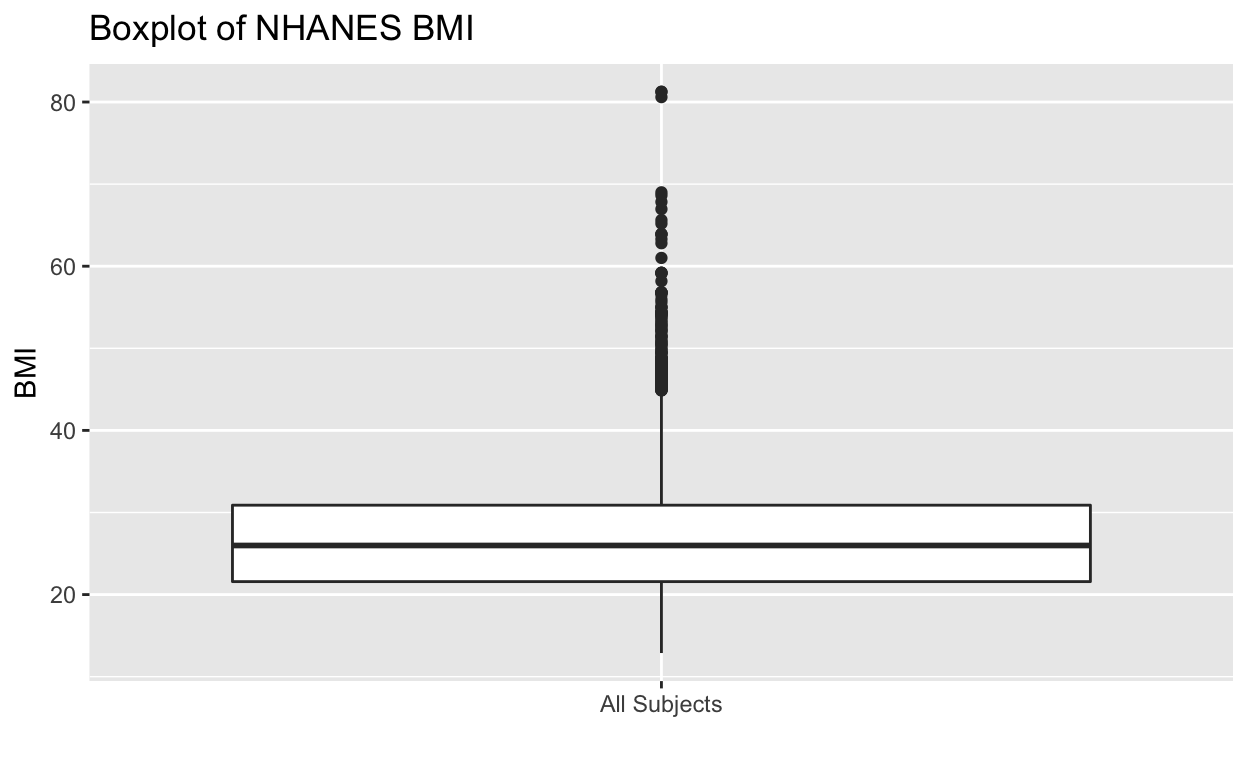
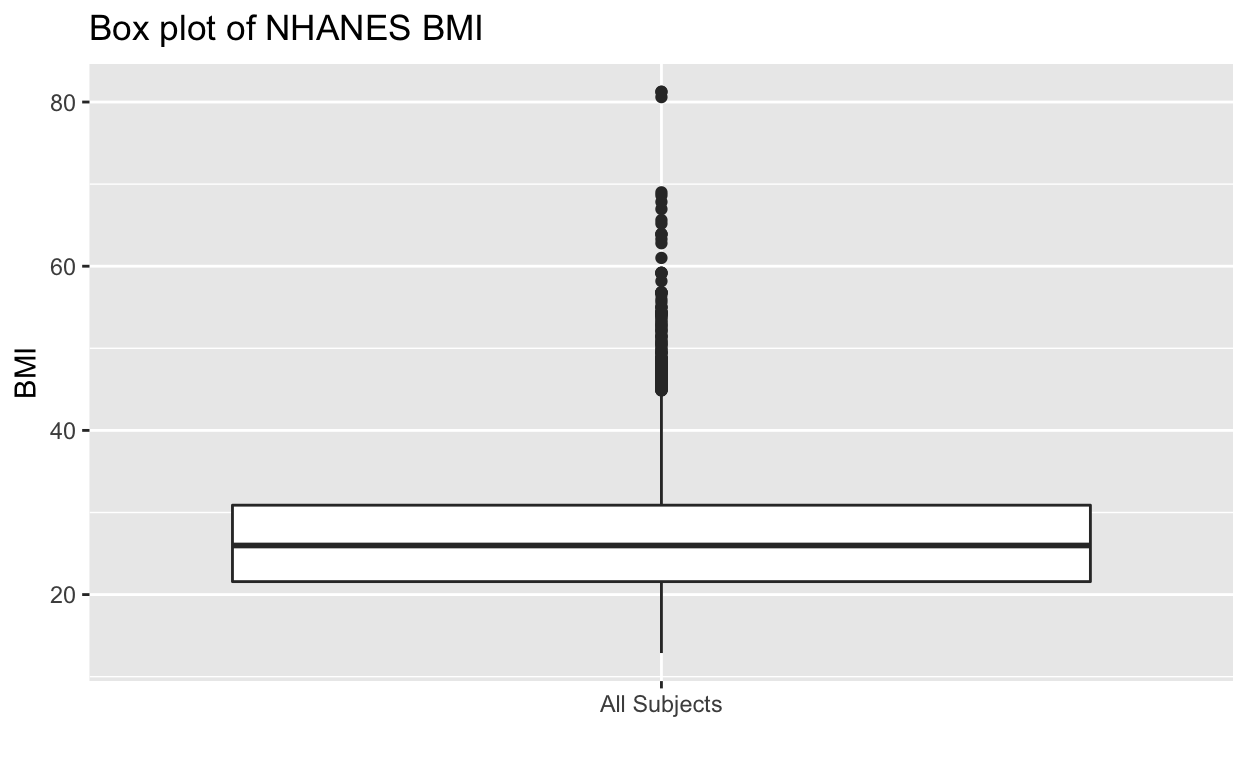
continuous updating

Changed region(s): [[0.125, 0.0, 0.375, 0.0625]]

diff --git a/inst/tutorials/continuousData/continuousData.html b/inst/tutorials/continuousData/continuousData.html
@@ -49,6 +49,7 @@ if (window.hljs && document.readyState && document.readyState === "complete") {
 <div id="section-learning-objectives-for-this-session" class="section level2">
 <h2>Learning Objectives for this Session</h2>
 <p>Don’t forget! <a href="https://goo.gl/forms/08XdUkM3Y34Fjqn12">Please fill out our pre-session survey. (pre-categorical and continuous)</a></p>
+<p>Find this session at <a href="https://minnier.shinyapps.io/ODSI_continuousData/" class="uri">https://minnier.shinyapps.io/ODSI_continuousData/</a></p>
 <p>At the end of this session you should be able to</p>
 <ul>
 <li>Understand statistical associations between continuous variables</li>
@@ -60,7 +61,7 @@ if (window.hljs && document.readyState && document.readyState === "complete") {
 </div>
 <div id="section-eda-with-continuous-variables" class="section level2">
 <h2>EDA with continuous variables</h2>
-<p>We saw bar plots and proportional plots used to visualize binary and categorical variables in the previous section. What are some good ways of visualizing continuous (quantitative) data? Let’s use the NHANES data set to visualize the variable <code>BMI</code> as a continuous variables.</p>
+<p>We saw bar plots and proportional plots used to visualize binary and categorical variables in the previous section. What are some good ways of visualizing continuous (quantitative) data? Let’s use the NHANES data set to visualize the variable <code>BMI</code> as a continuous variable.</p>
 <p>(Note info about the NHANES data in the NHANES package can be found <a href="https://cran.r-project.org/web/packages/NHANES/NHANES.pdf">here</a> with the disclaimer that NHANES are survey data so to do proper analyses we should use sampling weights. For illustration of more straightforward analyses we will ignore this detail.)</p>
 <div id="section-histogram-and-density-plots" class="section level3">
 <h3>Histogram and density plots</h3>
@@ -74,9 +75,9 @@ if (window.hljs && document.readyState && document.readyState === "complete") {
 <li>This is something to think about, data is not always a perfect bell shaped (Normal distribution) curve!</li>
 </ul>
 </div>
-<div id="section-boxplots" class="section level3">
-<h3>Boxplots</h3>
-<p>We can also use a boxplot to see similar patterns. The help from the boxplot R function <code>?geom_boxplot</code> tells us what all the parts of the boxplot mean:</p>
+<div id="section-box-plots" class="section level3">
+<h3>Box plots</h3>
+<p>We can also use a box plot to see similar patterns. The help from the box plot R function <code>?geom_boxplot</code> tells us what all the parts of the box plot mean:</p>
 <blockquote>
 <p>“The lower and upper hinges correspond to the first and third quartiles (the 25th and 75th percentiles). This differs slightly from the method used by the boxplot function, and may be apparent with small samples. See boxplot.stats for for more information on how hinge positions are calculated for boxplot.</p>
 </blockquote>
@@ -90,14 +91,26 @@ if (window.hljs && document.readyState && document.readyState === "complete") {
 <div id="section-how-do-we-assess-associations-between-two-continuous-variables" class="section level2">
 <h2>How do we assess associations between two continuous variables?</h2>
 <p>We learned that good EDA can help us identify associations.</p>
-<div id="section-scatterplots" class="section level3">
-<h3>Scatterplots</h3>
-<p>The first visualization you are likely to make when you have two continuous variables is a scatterplot. Let’s look at the scatterplots of <code>Height</code> and <code>Weight</code> vs. <code>BMI</code>.</p>
+<div id="section-scatter-plots" class="section level3">
+<h3>Scatter plots</h3>
+<p>The first visualization you are likely to make when you have two continuous variables is a scatter plot. Let’s look at the scatter plots of <code>Height</code> and <code>Weight</code> vs. <code>BMI</code>.</p>
 <ul>
 <li>How would you describe these relationships?</li>
 </ul>
 <p><img src="continuousData_files/figure-html/unnamed-chunk-5-1.png" width="624" /><img src="continuousData_files/figure-html/unnamed-chunk-5-2.png" width="624" /></p>
-<p>A simple statistical quantification of the association of two continuous variables is the <strong>Pearson’s Correlation Coefficient</strong> (often labeled <em>r</em>). - Note that this is quantifying a <em>linear</em> relationship. - We can visually represent the linear relationship with a line through the scatterplot. - If the relationship is relatively curved or exponential Pearson’s correlation will not capture this relationship. - An alternative might be the Spearman’s correlation which basically is the Pearson’s correlation of the ranks. This evaluates <em>monotone</em> relationships.</p>
+</div>
+<div id="section-correlation" class="section level3">
+<h3>Correlation</h3>
+<p>A simple statistical quantification of the association of two continuous variables is the <strong><a href="https://en.wikipedia.org/wiki/Pearson_correlation_coefficient">Pearson’s Correlation Coefficient</a></strong> (often labeled <em>r</em>).</p>
+<p><strong>Correlation = a quantity measuring the extent of interdependence of variable quantities</strong></p>
+<p><strong>Pearson’s correlation coefficient: a measure of the linear correlation between two variables</strong></p>
+<ul>
+<li>Note that this is quantifying a <em>linear</em> relationship.</li>
+<li>Value between -1 and +1, with 0 denoting no linear correlation</li>
+<li>We can visually represent the linear relationship with a line through the scatter plot.</li>
+<li>If the relationship is relatively curved or exponential Pearson’s correlation will not capture this relationship.</li>
+<li>An alternative might be the **Spearman’s correlation which essentially is the Pearson’s correlation of the <em>ranks.</em> This evaluates <em>monotone</em> relationships.</li>
+</ul>
 <p><strong>Question: How well does the line “fit” the data?</strong></p>
 <p><img src="continuousData_files/figure-html/unnamed-chunk-6-1.png" width="624" /><img src="continuousData_files/figure-html/unnamed-chunk-6-2.png" width="624" /></p>
 </div>
@@ -158,14 +171,14 @@ if (window.hljs && document.readyState && document.readyState === "complete") {
 <p>Now let’s explore the association of BMI with a binary (yes/no) variable. How does BMI differ by <code>Diabetes</code> status?</p>
 <p><img src="continuousData_files/figure-html/unnamed-chunk-9-1.png" width="624" /></p>
 
-<div id="htmlwidget-b1d79740a28ffdb489fe" style="width:100%;height:auto;", class = "quiz html-widget">
+<div id="htmlwidget-99fe444df7c692213fa8" style="width:100%;height:auto;", class = "quiz html-widget">
 <div class="panel panel-default">
 <div class="panel-body quizArea">
 </div>
 </div>
 </div>
 
-<script type="application/json" data-for="htmlwidget-b1d79740a28ffdb489fe">{"x":{"question":"Is BMI associated with diabetes status?","answers":[{"option":"No, BMI is the same for people with or without diabetes.","correct":false,"message":"Not true, look at the average BMI for each group."},{"option":"Yes, BMI is different depending on diabetes status.","correct":true,"message":"Yes, BMI is on average higher for subjects with diabetes than without."}],"label":"ques-b","skipStartButton":true,"perQuestionResponseAnswers":true,"perQuestionResponseMessaging":true,"preventUnanswered":true,"displayQuestionCount":false,"displayQuestionNumber":false,"disableRanking":true,"nextQuestionText":"","checkAnswerText":"Submit Answer","allowRetry":false,"randomSortAnswers":false,"json":{"info":{"name":"","main":""},"questions":[{"q":"Is BMI associated with diabetes status?","a":[{"option":"No, BMI is the same for people with or without diabetes.","correct":false,"message":"Not true, look at the average BMI for each group."},{"option":"Yes, BMI is different depending on diabetes status.","correct":true,"message":"Yes, BMI is on average higher for subjects with diabetes than without."}],"correct":"Correct!","incorrect":"Incorrect."}]}},"evals":[],"jsHooks":[]}</script>
+<script type="application/json" data-for="htmlwidget-99fe444df7c692213fa8">{"x":{"question":"Is BMI associated with diabetes status?","answers":[{"option":"No, BMI is the same for people with or without diabetes.","correct":false,"message":"Not true, look at the average BMI for each group."},{"option":"Yes, BMI is different depending on diabetes status.","correct":true,"message":"Yes, BMI is on average higher for subjects with diabetes than without."}],"label":"ques-b","skipStartButton":true,"perQuestionResponseAnswers":true,"perQuestionResponseMessaging":true,"preventUnanswered":true,"displayQuestionCount":false,"displayQuestionNumber":false,"disableRanking":true,"nextQuestionText":"","checkAnswerText":"Submit Answer","allowRetry":false,"randomSortAnswers":false,"json":{"info":{"name":"","main":""},"questions":[{"q":"Is BMI associated with diabetes status?","a":[{"option":"No, BMI is the same for people with or without diabetes.","correct":false,"message":"Not true, look at the average BMI for each group."},{"option":"Yes, BMI is different depending on diabetes status.","correct":true,"message":"Yes, BMI is on average higher for subjects with diabetes than without."}],"correct":"Correct!","incorrect":"Incorrect."}]}},"evals":[],"jsHooks":[]}</script>
 <p>We see that BMI is on average higher for subjects with diabetes than without. There is also a third category called <code>NA</code>. This means the data is missing.</p>
 <p>Let’s explore the missingness in this data a bit before we move on.</p>
 </div>
@@ -187,19 +200,19 @@ if (window.hljs && document.readyState && document.readyState === "complete") {
 {"columns":[{"label":["Age"],"name":[1],"type":["int"],"align":["right"]},{"label":["n"],"name":[2],"type":["dbl"],"align":["right"]},{"label":["percent"],"name":[3],"type":["dbl"],"align":["right"]}],"data":[{"1":"0","2":"137","3":"0.96478873"},{"1":"12","2":"3","3":"0.02112676"},{"1":"67","2":"2","3":"0.01408451"}],"options":{"columns":{"min":{},"max":[10]},"rows":{"min":[10],"max":[10]},"pages":{}}}
   </script>
 </div>
-<p>What about missingness in BMI? How does this relate to age? We can use the <code>naniar</code> package in R to visualize this with a scatterplot:</p>
+<p>What about missingness in BMI? How does this relate to age? We can use the <code>naniar</code> package in R to visualize this with a scatter plot:</p>
 <p><img src="continuousData_files/figure-html/unnamed-chunk-12-1.png" width="624" /></p>
 <p>We also might notice something interesting about the age distribution of our population.</p>
 
-<div id="htmlwidget-a538f809d400f9b9a45f" style="width:100%;height:auto;", class = "quiz html-widget">
+<div id="htmlwidget-6b8cb6863bace0afe870" style="width:100%;height:auto;", class = "quiz html-widget">
 <div class="panel panel-default">
 <div class="panel-body quizArea">
 </div>
 </div>
 </div>
 
-<script type="application/json" data-for="htmlwidget-a538f809d400f9b9a45f">{"x":{"question":"Why do you think there&#39;s a pile up of points at age 80?","answers":[{"option":"Everyone died at age 80.","correct":false,"message":"Highly unlikely."},{"option":"They oversampled from the 80 year olds.","correct":false,"message":"Highly unlikely."},{"option":"The data was truncated.","correct":true,"message":"Correct! But why? Probably to preserve de-identification. If we were to fit a model to find the association of age and height, how do you think those 80 year olds would influence our results?"}],"label":"ques-a","skipStartButton":true,"perQuestionResponseAnswers":true,"perQuestionResponseMessaging":true,"preventUnanswered":true,"displayQuestionCount":false,"displayQuestionNumber":false,"disableRanking":true,"nextQuestionText":"","checkAnswerText":"Submit Answer","allowRetry":false,"randomSortAnswers":false,"json":{"info":{"name":"","main":""},"questions":[{"q":"Why do you think there&#39;s a pile up of points at age 80?","a":[{"option":"Everyone died at age 80.","correct":false,"message":"Highly unlikely."},{"option":"They oversampled from the 80 year olds.","correct":false,"message":"Highly unlikely."},{"option":"The data was truncated.","correct":true,"message":"Correct! But why? Probably to preserve de-identification. If we were to fit a model to find the association of age and height, how do you think those 80 year olds would influence our results?"}],"correct":"Correct!","incorrect":"Incorrect."}]}},"evals":[],"jsHooks":[]}</script>
-<p>For future analyses, let’s work with subjects older than 20 years of age, and remove subjects with missing <code>Diabetes</code> and <code>BMI</code> values. Lastly, let’s check out the boxplots on this filtered data.</p>
+<script type="application/json" data-for="htmlwidget-6b8cb6863bace0afe870">{"x":{"question":"Why do you think there&#39;s a pile up of points at age 80?","answers":[{"option":"Everyone died at age 80.","correct":false,"message":"Highly unlikely."},{"option":"They oversampled from the 80 year olds.","correct":false,"message":"Highly unlikely."},{"option":"The data was truncated.","correct":true,"message":"Correct! But why? Probably to preserve de-identification. If we were to fit a model to find the association of age and height, how do you think those 80 year olds would influence our results?"}],"label":"ques-a","skipStartButton":true,"perQuestionResponseAnswers":true,"perQuestionResponseMessaging":true,"preventUnanswered":true,"displayQuestionCount":false,"displayQuestionNumber":false,"disableRanking":true,"nextQuestionText":"","checkAnswerText":"Submit Answer","allowRetry":false,"randomSortAnswers":false,"json":{"info":{"name":"","main":""},"questions":[{"q":"Why do you think there&#39;s a pile up of points at age 80?","a":[{"option":"Everyone died at age 80.","correct":false,"message":"Highly unlikely."},{"option":"They oversampled from the 80 year olds.","correct":false,"message":"Highly unlikely."},{"option":"The data was truncated.","correct":true,"message":"Correct! But why? Probably to preserve de-identification. If we were to fit a model to find the association of age and height, how do you think those 80 year olds would influence our results?"}],"correct":"Correct!","incorrect":"Incorrect."}]}},"evals":[],"jsHooks":[]}</script>
+<p>For future analyses, let’s work with subjects older than 20 years of age, and remove subjects with missing <code>Diabetes</code> and <code>BMI</code> values. Lastly, let’s check out the box plots on this filtered data.</p>
 <pre class="r"><code>nhanes_filtered = NHANES %&gt;% filter(Age &gt;= 20, !is.na(Diabetes), !is.na(BMI))
 
 nrow(nhanes_filtered)</code></pre>
@@ -208,11 +221,14 @@ nrow(nhanes_filtered)</code></pre>
 </div>
 <div id="section-t-test" class="section level2">
 <h2>T Test</h2>
-<p>The most common statistical test to compare the distribution of continuous variables across a binary (Yes/No) variable (like diabetes) is the two sample Student’s T Test. It is so named because the test statistic—which quantifies how different the means are in relation to the variance—follows a T-distribution. The T-distribution is like the normal bell shaped curve but with “fatter tails”.</p>
+<p>The most common statistical test to compare the distribution of continuous variables across a binary (Yes/No) variable (like diabetes) is the two sample Student’s T Test.</p>
+<p><strong>two sample T-statistic = (difference in means)/sqrt(pooled variance)</strong></p>
+<p>The test is is so named because the test statistic—which quantifies how different the means are in relation to the variance—follows a T-distribution. The T-distribution is like the normal bell shaped curve but with “fatter tails”. The tails become closer to the Normal distribution as <em>n</em> gets larger.</p>
+<p><img src="continuousData_files/figure-html/unnamed-chunk-15-1.png" width="624" /></p>
 <p>The T test makes <em>assumptions</em> about the distribution of your continuous variable within the two groups:</p>
 <ul>
 <li>The measure (BMI) follows a normal distribution with a certain <em>mean</em> and <em>variance</em> within each set (group).</li>
-<li>The two sets (groups) of data are independent. (BMI for non-diabetes patients is normally distributed, BMI for yes-diabetes patients is also normally distributed). If we have some kind of relationship (i.e. matching, or measured on the same subjects) we need to use a “paired T test.”</li>
+<li>The two sets (groups) of data are independent. If we have some kind of relationship (i.e. matching, or measured on the same subjects) we need to use a “paired T test.”</li>
 </ul>
 <div id="section-null-vs-alternative-hypothesis" class="section level3">
 <h3>Null vs alternative hypothesis</h3>
@@ -221,17 +237,17 @@ nrow(nhanes_filtered)</code></pre>
 <li><strong>Alternative hypothesis (Ha):</strong> <em>the two group means are not equal</em></li>
 </ul>
 <p>Let’s look at the smoothed histograms (density plots) of the two groups’ BMIs.</p>
-<p><img src="continuousData_files/figure-html/unnamed-chunk-15-1.png" width="624" /></p>
+<p><img src="continuousData_files/figure-html/unnamed-chunk-16-1.png" width="624" /></p>
 <p><strong>Question: Do we think the assumptions of the t-test hold?</strong></p>
 
-<div id="htmlwidget-0b8a5c3378764ced18df" style="width:100%;height:auto;", class = "quiz html-widget">
+<div id="htmlwidget-b788a1d8af42c2a656d9" style="width:100%;height:auto;", class = "quiz html-widget">
 <div class="panel panel-default">
 <div class="panel-body quizArea">
 </div>
 </div>
 </div>
 
-<script type="application/json" data-for="htmlwidget-0b8a5c3378764ced18df">{"x":{"question":"Do you think the assumptions of the t-test hold?","answers":[{"option":"No, not completely.","correct":true,"message":"The independence assumption holds, but the fact that our distribution is somewhat positively skewed actually violates the normality assumption of the T-test"},{"option":"Yes, completely.","correct":false,"message":"Not quite: the independence assumption holds, but the fact that our distribution is somewhat positively skewed actually violates the normality assumption of the T-test."}],"label":"ques-c","skipStartButton":true,"perQuestionResponseAnswers":true,"perQuestionResponseMessaging":true,"preventUnanswered":true,"displayQuestionCount":false,"displayQuestionNumber":false,"disableRanking":true,"nextQuestionText":"","checkAnswerText":"Submit Answer","allowRetry":false,"randomSortAnswers":false,"json":{"info":{"name":"","main":""},"questions":[{"q":"Do you think the assumptions of the t-test hold?","a":[{"option":"No, not completely.","correct":true,"message":"The independence assumption holds, but the fact that our distribution is somewhat positively skewed actually violates the normality assumption of the T-test"},{"option":"Yes, completely.","correct":false,"message":"Not quite: the independence assumption holds, but the fact that our distribution is somewhat positively skewed actually violates the normality assumption of the T-test."}],"correct":"Correct!","incorrect":"Incorrect."}]}},"evals":[],"jsHooks":[]}</script>
+<script type="application/json" data-for="htmlwidget-b788a1d8af42c2a656d9">{"x":{"question":"Do you think the assumptions of the t-test hold?","answers":[{"option":"No, not completely.","correct":true,"message":"The independence assumption holds, but the fact that our distribution is somewhat positively skewed actually violates the normality assumption of the T-test"},{"option":"Yes, completely.","correct":false,"message":"Not quite: the independence assumption holds, but the fact that our distribution is somewhat positively skewed actually violates the normality assumption of the T-test."}],"label":"ques-c","skipStartButton":true,"perQuestionResponseAnswers":true,"perQuestionResponseMessaging":true,"preventUnanswered":true,"displayQuestionCount":false,"displayQuestionNumber":false,"disableRanking":true,"nextQuestionText":"","checkAnswerText":"Submit Answer","allowRetry":false,"randomSortAnswers":false,"json":{"info":{"name":"","main":""},"questions":[{"q":"Do you think the assumptions of the t-test hold?","a":[{"option":"No, not completely.","correct":true,"message":"The independence assumption holds, but the fact that our distribution is somewhat positively skewed actually violates the normality assumption of the T-test"},{"option":"Yes, completely.","correct":false,"message":"Not quite: the independence assumption holds, but the fact that our distribution is somewhat positively skewed actually violates the normality assumption of the T-test."}],"correct":"Correct!","incorrect":"Incorrect."}]}},"evals":[],"jsHooks":[]}</script>
 <p><strong>However!</strong> The T-test is pretty robust to slight violations of the normality assumption, especially since we have a large sample size</p>
 <ul>
 <li>statistics side note: thanks to the Central Limit Theorem, our test is still <em>valid</em> as in we preserve our type I error; for a nice explanation of this see <a href="http://thestatsgeek.com/2013/09/28/the-t-test-and-robustness-to-non-normality/">this Stats Geek blog post</a> and <a href="http://rctdesign.org/techreports/arphnonnormality.pdf">Lumley T, et al 2002</a>)</li>
@@ -272,8 +288,8 @@ nrow(nhanes_filtered)</code></pre>
 <h2>Explore other factors</h2>
 <p>What other factors might be associated with BMI?</p>
 <ul>
-<li>To assess continuous factors we can make scatterplots</li>
-<li>We can stratify scatterplots by categorical variables
+<li>To assess continuous factors we can make scatter plots</li>
+<li>We can stratify scatter plots by categorical variables
 <ul>
 <li>–&gt; assess associations of continuous variables with BMI within subcategories (i.e. of Diabetes)</li>
 </ul></li>
@@ -318,9 +334,11 @@ nrow(nhanes_filtered)</code></pre>
 <li>A common framework for the analysis of these types of associations is <strong>linear regression</strong>.</li>
 <li>Linear regression attempts to associate a <em>dependent variable</em> or <em>outcome</em> (i.e. BMI) with one or more <em>indepedent variables</em> or <em>predictors</em> (i.e. diabetes, blood pressure).</li>
 </ul>
-<p>Mathematically, we are modeling our outcome as a <em>linear</em> combination of our other variables.</p>
+<p><strong>Assumptions and model:</strong></p>
+<p>Mathematically, we are modeling our outcome <span class="math inline">\(\ Y\)</span></p>
 <ul>
-<li>assumption: plus some random error, call it <span class="math inline">\(\ \epsilon\)</span> that is normally distributed</li>
+<li>as a <em>linear</em> combination of our other variables <span class="math inline">\(\ X_1, X_2, X_3 \ldots\)</span></li>
+<li>plus some random error <span class="math inline">\(\ \epsilon\)</span> that is normally distributed</li>
 </ul>
 <p><span class="math display">\[\ Y = \beta_0 + \beta_1 X_1 + \beta_2 X_2 + \epsilon\]</span></p>
 <p>Suppose we want to determine if systolic blood pressure is associated with BMI after <em>adjusting for</em> diabetes status.</p>
@@ -331,7 +349,7 @@ nrow(nhanes_filtered)</code></pre>
 <p>We would fit a model:</p>
 <p><span class="math display">\[\ BMI = \beta_0 + \beta_1 (Pulse) + \beta_2 (Diabetes = Yes) + \epsilon\]</span> and test whether the <strong>coefficient</strong> <span class="math inline">\(\ \beta_1\)</span> is equal to 0 or not.</p>
 <p>We can visualize this:</p>
-<p><img src="continuousData_files/figure-html/unnamed-chunk-21-1.png" width="624" /></p>
+<p><img src="continuousData_files/figure-html/unnamed-chunk-22-1.png" width="624" /></p>
 <p>We can run a linear regression in <code>R</code> and view the output:</p>
 <pre class="r"><code>summary(fit1 &lt;- lm(BMI ~ Pulse + Diabetes, data = nhanes_filtered))</code></pre>
 <pre><code>## 
@@ -419,7 +437,7 @@ nrow(nhanes_filtered)</code></pre>
 <li>What is the R-squared, now? Why?</li>
 <li>Does this model make sense in practice?</li>
 </ul>
-<p><img src="continuousData_files/figure-html/unnamed-chunk-25-1.png" width="624" /></p>
+<p><img src="continuousData_files/figure-html/unnamed-chunk-26-1.png" width="624" /></p>
 </div>
 <div id="section-your-turn" class="section level2">
 <h2>Your Turn</h2>
